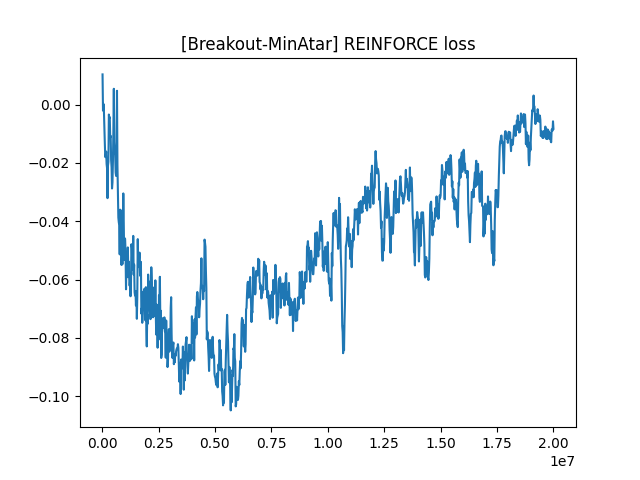
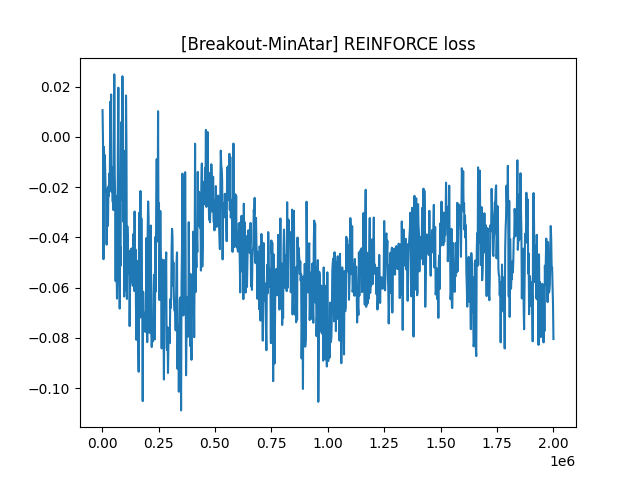
add breakout charts

diff --git a/algos/actor_critic.py b/algos/actor_critic.py
@@ -37,6 +37,17 @@ params = {
         "critic_learning_rate": 0.004,
         "critic_updates": 25,
     },
+    "breakout": {
+        "actor_sizes": (400, 100),
+        "critic_sizes": (400, 100),
+        "num_updates": 1000,
+        "batch_count": 50,
+        "rollout_len": 2000,
+        "discount_rate": 0.995,
+        "actor_learning_rate": 0.0015,
+        "critic_learning_rate": 0.003,
+        "critic_updates": 20,
+    },
 }
 
 NUM_UPDATES = params[ENV_KEY]["num_updates"]

diff --git a/algos/reinforce.py b/algos/reinforce.py
@@ -35,7 +35,7 @@ params = {
         "hidden_sizes": (400, 100),
         "num_updates": 1000,
         "batch_count": 50,
-        "rollout_len": 20000,
+        "rollout_len": 2000,
         "discount_rate": 0.995,
         "learning_rate": 0.001,
     }

diff --git a/algos/env.py b/algos/env.py
@@ -5,7 +5,7 @@ names = {
     "catch": "Catch-bsuite",
     "breakout": "Breakout-MinAtar",
 }
-key = "cartpole"
+key = "breakout"
 
 ENV = names[key]
 ENV_KEY = key
